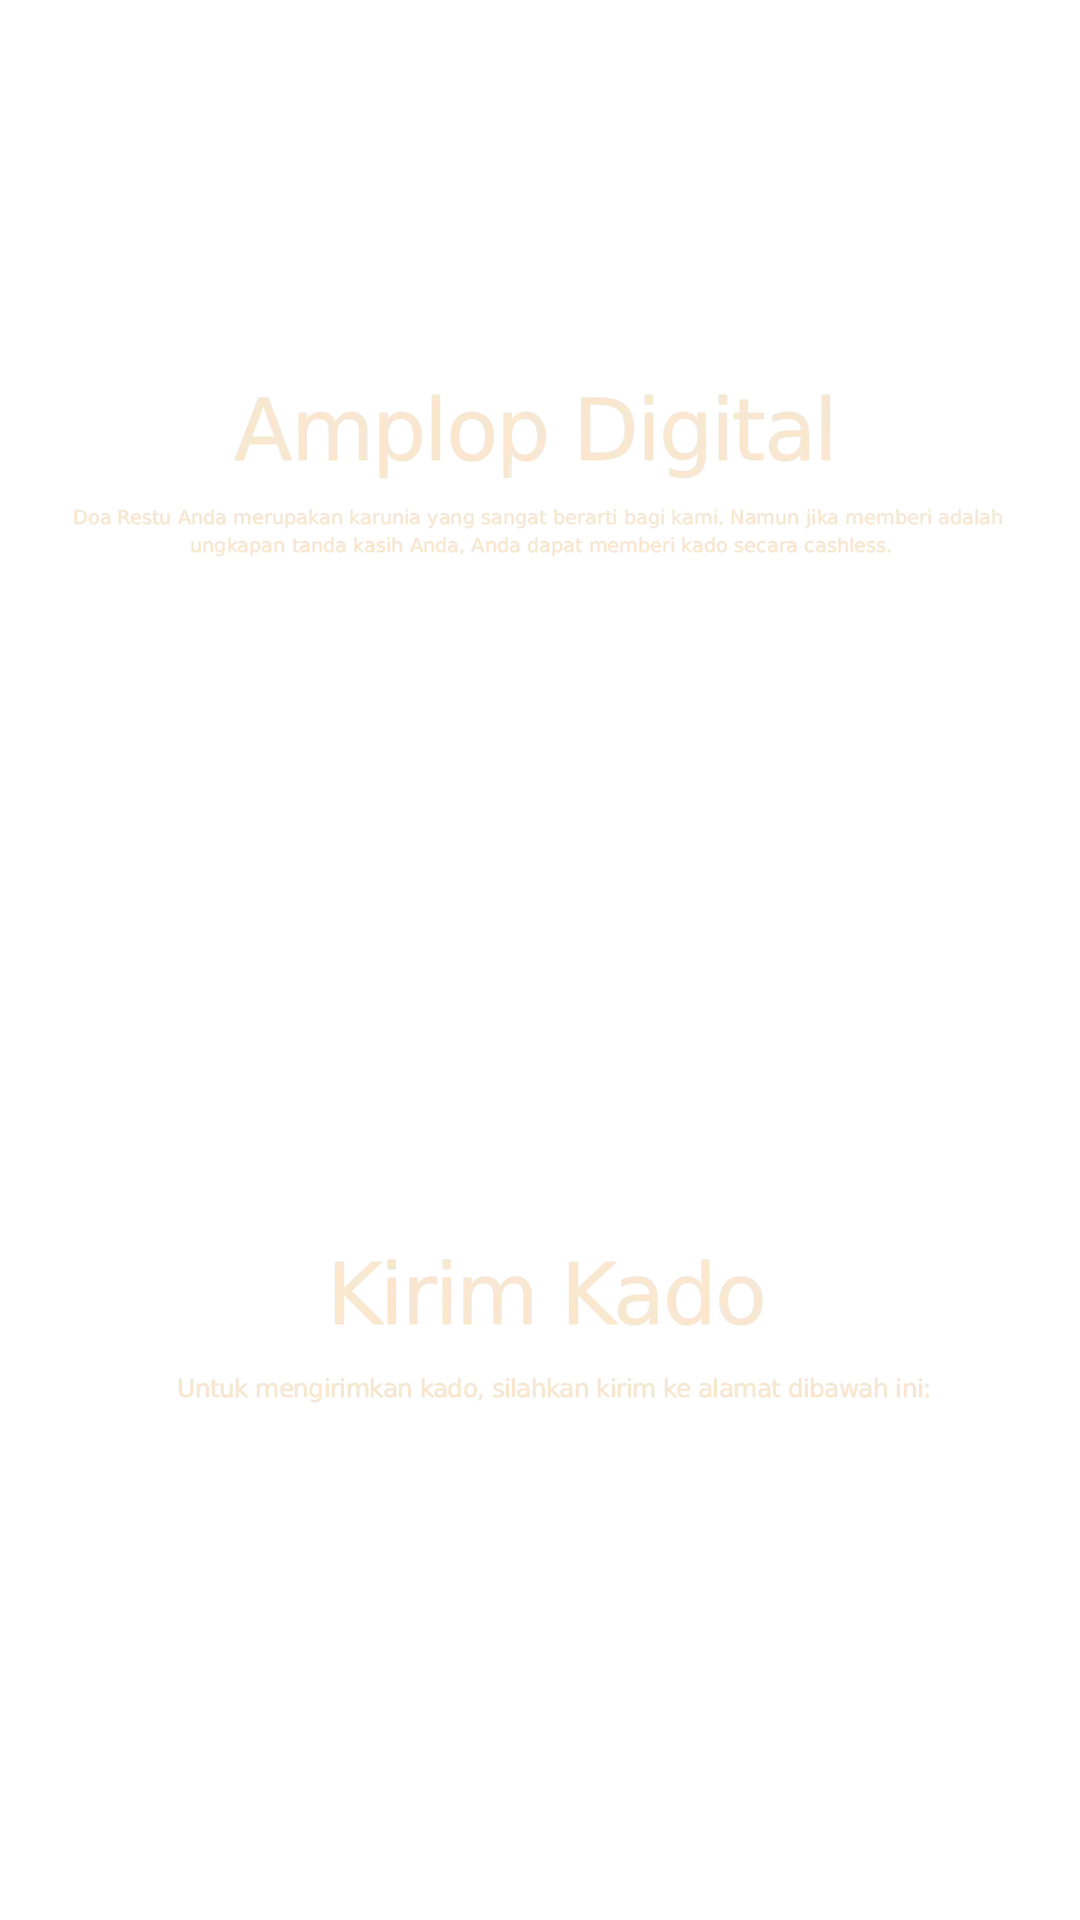
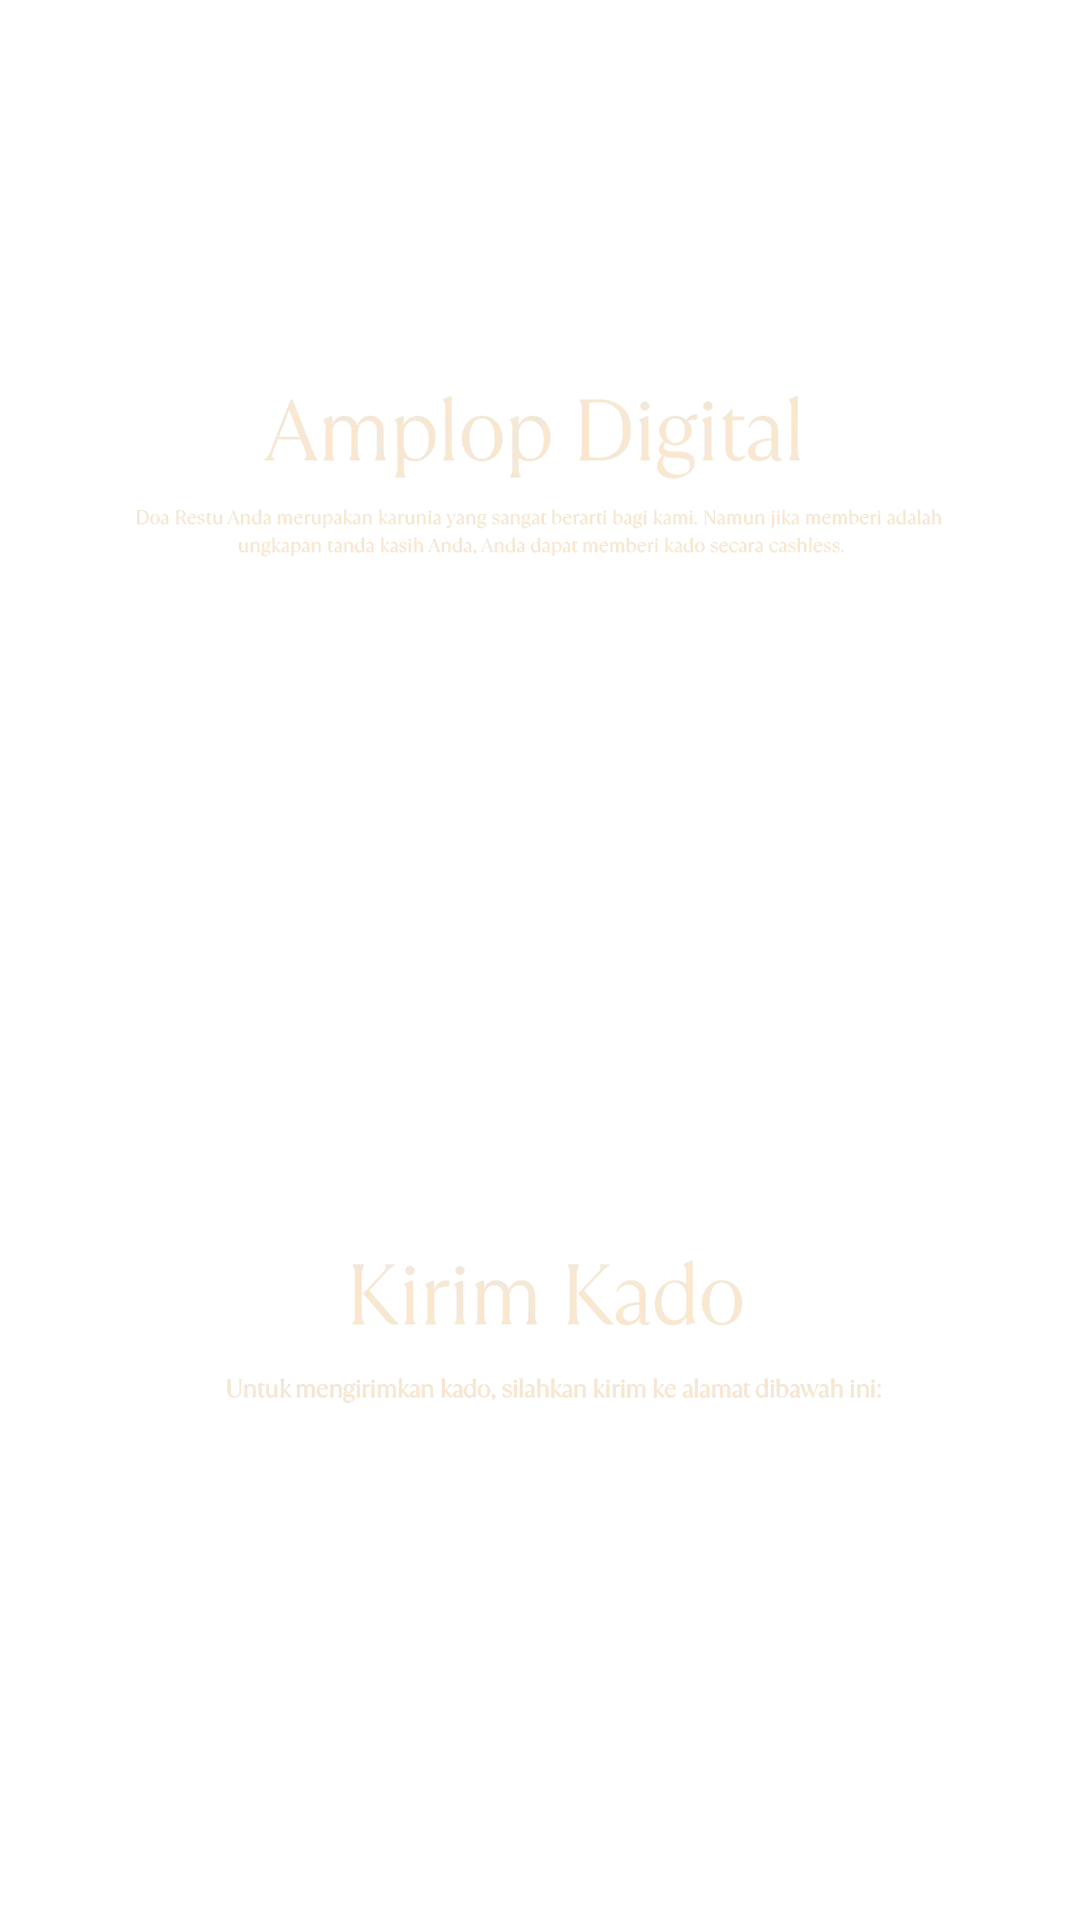
feat: glassmorphism card on guestbook, enable floating decor on all pages, update Google Maps URL, and change title to Undangan Khitan Kenzie dan Rasulan Puja

diff --git a/index.html b/index.html
@@ -6,9 +6,9 @@
     <meta name="theme-color" content="#1a1410" />
 
     <!-- Primary Meta Tags -->
-    <title>Undangan Khitan &amp; Rasulan Kenzie &amp; Puja</title>
-    <meta name="title" content="Undangan Khitan &amp; Rasulan Kenzie &amp; Puja" />
-    <meta name="description" content="Undangan Khitan &amp; Rasulan Kenzie Aslam Kayana Kasnur &amp; Puja Faiha Kasnur, putra-putri IPDA Aditya, S.H. &amp; Bripka Tresia Moris, S.H. Mohon doa &amp; kehadirannya." />
+    <title>Undangan Khitan Kenzie dan Rasulan Puja</title>
+    <meta name="title" content="Undangan Khitan Kenzie dan Rasulan Puja" />
+    <meta name="description" content="Undangan Khitan Kenzie dan Rasulan Puja, putra-putri IPDA Aditya, S.H. &amp; Bripka Tresia Moris, S.H. (Kenzie &amp; Puja). Mohon doa &amp; kehadirannya." />
     <meta name="keywords" content="undangan khitan, khitanan, rasulan, Kenzie Aslam Kayana Kasnur, Puja Faiha Kasnur, undangan digital" />
     <meta name="author" content="IPDA ADITYA, S.H. &amp; BRIPKA TRESIA MORIS, S.H." />
     <meta name="robots" content="index, follow" />
@@ -24,15 +24,15 @@
     <!-- Open Graph / Facebook / LinkedIn / WhatsApp -->
     <meta property="og:type" content="website" />
     <meta property="og:url" content="https://undangan-khitan-khenzie.pages.dev/" />
-    <meta property="og:title" content="Undangan Khitan &amp; Rasulan Kenzie &amp; Puja" />
-    <meta property="og:description" content="Undangan Khitan &amp; Rasulan Kenzie Aslam Kayana Kasnur &amp; Puja Faiha Kasnur, putra-putri IPDA Aditya, S.H. &amp; Bripka Tresia Moris, S.H. Mohon doa &amp; kehadirannya." />
+    <meta property="og:title" content="Undangan Khitan Kenzie dan Rasulan Puja" />
+    <meta property="og:description" content="Undangan Khitan Kenzie dan Rasulan Puja, putra-putri IPDA Aditya, S.H. &amp; Bripka Tresia Moris, S.H. (Kenzie &amp; Puja). Mohon doa &amp; kehadirannya." />
     <meta property="og:image" content="https://undangan-khitan-khenzie.pages.dev/og-image.jpg" />
     <meta property="og:image:secure_url" content="https://undangan-khitan-khenzie.pages.dev/og-image.jpg" />
     <meta property="og:image:type" content="image/jpeg" />
     <meta property="og:image:width" content="1200" />
     <meta property="og:image:height" content="630" />
-    <meta property="og:image:alt" content="Undangan Khitan &amp; Rasulan Kenzie &amp; Puja" />
-    <meta property="og:site_name" content="Undangan Khitan &amp; Rasulan Kenzie &amp; Puja" />
+    <meta property="og:image:alt" content="Undangan Khitan Kenzie dan Rasulan Puja" />
+    <meta property="og:site_name" content="Undangan Khitan Kenzie dan Rasulan Puja" />
     <meta property="og:locale" content="id_ID" />
 
     <!-- Twitter Card -->
@@ -40,14 +40,14 @@
     <meta name="twitter:site" content="@undangan_khitan" />
     <meta name="twitter:creator" content="@undangan_khitan" />
     <meta name="twitter:url" content="https://undangan-khitan-khenzie.pages.dev/" />
-    <meta name="twitter:title" content="Undangan Khitan &amp; Rasulan Kenzie &amp; Puja" />
-    <meta name="twitter:description" content="Undangan Khitan &amp; Rasulan Kenzie Aslam Kayana Kasnur &amp; Puja Faiha Kasnur, putra-putri IPDA Aditya, S.H. &amp; Bripka Tresia Moris, S.H. Mohon doa &amp; kehadirannya." />
+    <meta name="twitter:title" content="Undangan Khitan Kenzie dan Rasulan Puja" />
+    <meta name="twitter:description" content="Undangan Khitan Kenzie dan Rasulan Puja, putra-putri IPDA Aditya, S.H. &amp; Bripka Tresia Moris, S.H. (Kenzie &amp; Puja). Mohon doa &amp; kehadirannya." />
     <meta name="twitter:image" content="https://undangan-khitan-khenzie.pages.dev/og-image.jpg" />
-    <meta name="twitter:image:alt" content="Undangan Khitan &amp; Rasulan Kenzie &amp; Puja" />
+    <meta name="twitter:image:alt" content="Undangan Khitan Kenzie dan Rasulan Puja" />
   </head>
   <body>
     <div id="root">
-      <h1 class="sr-only">Undangan Khitan &amp; Rasulan Kenzie Aslam Kayana Kasnur &amp; Puja Faiha Kasnur</h1>
+      <h1 class="sr-only">Undangan Khitan Kenzie dan Rasulan Puja</h1>
     </div>
     <script type="module" src="/src/main.jsx"></script>
 
@@ -55,13 +55,13 @@
       {
         "@context": "https://schema.org",
         "@type": "Event",
-        "name": "Khitanan & Rasulan Kenzie & Puja",
+        "name": "Khitanan Kenzie dan Rasulan Puja",
         "eventAttendanceMode": "https://schema.org/OfflineEventAttendanceMode",
         "eventStatus": "https://schema.org/EventScheduled",
         "about": "Undangan khitanan dan rasulan putra putri kami, Kenzie Aslam Kayana Kasnur & Puja Faiha Kasnur",
         "startDate": "2026-08-03T08:00:00+07:00",
         "endDate": "2026-08-03T14:00:00+07:00",
-        "description": "Undangan Khitan & Rasulan Kenzie Aslam Kayana Kasnur & Puja Faiha Kasnur, putra-putri IPDA Aditya, S.H. & Bripka Tresia Moris, S.H. Mohon doa & kehadirannya.",
+        "description": "Undangan Khitan Kenzie dan Rasulan Puja, putra-putri IPDA Aditya, S.H. & Bripka Tresia Moris, S.H. (Kenzie & Puja). Mohon doa & kehadirannya.",
         "inLanguage": "id-ID",
         "image": "https://undangan-khitan-khenzie.pages.dev/og-image.jpg",
         "url": "https://undangan-khitan-khenzie.pages.dev/",

diff --git a/src/App.css b/src/App.css
@@ -1114,25 +1114,31 @@ body {
 .attendance-page-btn {
   font-family: 'TT Ramillas', serif;
   font-size: clamp(0.75rem, 2.8vw, 0.95rem);
-  font-weight: 500;
-  color: var(--cream);
-  background: var(--brown-dark);
-  border: 1px solid var(--gold);
-  width: 34px;
-  height: 34px;
-  border-radius: 6px;
+  font-weight: 600;
+  color: #ffffff;
+  background: rgba(255, 255, 255, 0.08);
+  backdrop-filter: blur(10px);
+  -webkit-backdrop-filter: blur(10px);
+  border: 1.5px solid rgba(255, 255, 255, 0.28);
+  width: 36px;
+  height: 36px;
+  border-radius: 8px;
   cursor: pointer;
-  transition: background 0.3s ease;
+  transition: all 0.3s ease;
+  box-shadow: 0 4px 12px rgba(0, 0, 0, 0.2);
   -webkit-tap-highlight-color: transparent;
 }
 
 .attendance-page-btn.is-active {
   background: #dfa64f;
   color: #0b1736;
+  border-color: #dfa64f;
+  box-shadow: 0 4px 16px rgba(223, 166, 79, 0.4);
 }
 
-.attendance-page-btn:active {
-  background: var(--brown-medium);
+.attendance-page-btn:hover:not(.is-active):not(:disabled) {
+  background: rgba(255, 255, 255, 0.16);
+  border-color: rgba(255, 255, 255, 0.4);
 }
 
 .attendance-page-btn:disabled {
@@ -1174,51 +1180,87 @@ body {
 
 .attendance-empty {
   font-family: 'TT Ramillas', serif;
-  font-size: clamp(0.7rem, 2.5vw, 0.85rem);
-  color: var(--brown-dark);
-  opacity: 0.7;
+  font-size: clamp(0.85rem, 3vw, 1rem);
+  color: #ffffff;
+  opacity: 0.95;
   text-align: center;
+  background: rgba(255, 255, 255, 0.08);
+  backdrop-filter: blur(14px);
+  -webkit-backdrop-filter: blur(14px);
+  border: 1.5px solid rgba(255, 255, 255, 0.28);
+  border-radius: 14px;
+  padding: 32px 20px;
+  box-shadow: 0 8px 32px rgba(0, 0, 0, 0.4), inset 0 1px 1px rgba(255, 255, 255, 0.2);
 }
 
 .attendance-wish-column {
-  background: #613c2c;
-  border: 1px solid var(--gold);
-  border-radius: 12px;
-  padding: 14px 14px;
+  background: rgba(255, 255, 255, 0.08);
+  backdrop-filter: blur(14px);
+  -webkit-backdrop-filter: blur(14px);
+  border: 1.5px solid rgba(255, 255, 255, 0.28);
+  border-radius: 14px;
+  padding: 16px 14px;
   display: flex;
   flex-direction: column;
-  gap: 10px;
+  gap: 12px;
   height: 58dvh;
   overflow-y: auto;
+  box-shadow: 0 8px 32px rgba(0, 0, 0, 0.4), inset 0 1px 1px rgba(255, 255, 255, 0.2);
+}
+
+.attendance-wish-column::-webkit-scrollbar {
+  width: 5px;
+}
+
+.attendance-wish-column::-webkit-scrollbar-track {
+  background: transparent;
+}
+
+.attendance-wish-column::-webkit-scrollbar-thumb {
+  background: rgba(255, 255, 255, 0.25);
+  border-radius: 10px;
+}
+
+.attendance-wish-column::-webkit-scrollbar-thumb:hover {
+  background: rgba(255, 255, 255, 0.45);
 }
 
 .attendance-wish {
-  background: rgba(255, 255, 255, 0.06);
-  border: 1px solid rgba(212, 175, 55, 0.4);
-  border-radius: 8px;
-  padding: 10px 12px;
+  background: rgba(255, 255, 255, 0.08);
+  backdrop-filter: blur(10px);
+  -webkit-backdrop-filter: blur(10px);
+  border: 1px solid rgba(255, 255, 255, 0.24);
+  border-radius: 10px;
+  padding: 12px 14px;
+  box-shadow: 0 4px 16px rgba(0, 0, 0, 0.25), inset 0 1px 1px rgba(255, 255, 255, 0.15);
+  transition: transform 0.2s ease, border-color 0.2s ease;
+}
+
+.attendance-wish:hover {
+  border-color: rgba(255, 255, 255, 0.45);
 }
 
 .attendance-wish-name {
   font-family: 'TT Ramillas', serif;
-  font-size: clamp(0.85rem, 3vw, 1rem);
-  font-weight: 500;
-  color: var(--gold-light);
+  font-size: clamp(0.9rem, 3.2vw, 1.05rem);
+  font-weight: 700;
+  color: #dfa64f;
+  letter-spacing: 0.5px;
 }
 
 .attendance-wish-meta {
   font-family: 'TT Ramillas', serif;
-  font-size: clamp(0.6rem, 2vw, 0.75rem);
-  color: var(--cream);
-  opacity: 0.8;
-  margin: 2px 0 4px;
+  font-size: clamp(0.65rem, 2.2vw, 0.78rem);
+  color: rgba(255, 255, 255, 0.75);
+  margin: 3px 0 6px;
 }
 
 .attendance-wish-text {
   font-family: 'TT Ramillas', serif;
-  font-size: clamp(0.7rem, 2.5vw, 0.9rem);
-  color: var(--cream);
-  line-height: 1.4;
+  font-size: clamp(0.75rem, 2.8vw, 0.92rem);
+  color: #ffffff;
+  line-height: 1.5;
+  word-break: break-word;
 }
 
 /* ===== DASHBOARD (route /dashboard) — mobile app shell ===== */

diff --git a/src/App.jsx b/src/App.jsx
@@ -93,14 +93,13 @@ function GapuraOpening() {
 
 function PageSection({ index, images, showGapura, gallery, amplop, mapsUrl, form, guestbook, closing }) {
   const konten = `/konten${index}.webp`
-  const animateDecor = !form && !guestbook && !amplop
 
   return (
     <section className="invite-page">
       {/* Reused layers: bg, gunungan, bunga, border */}
       <div className="cover-layer-bg" />
-      <div className={`cover-layer-gunungan${animateDecor ? '' : ' no-float'}`} />
-      <div className={`cover-layer-bunga${animateDecor ? '' : ' no-float'}`} />
+      <div className="cover-layer-gunungan" />
+      <div className="cover-layer-bunga" />
       <div className="cover-layer-border" />
 
       {/* Attendance form page */}
@@ -178,7 +177,7 @@ function MultiPageSection() {
           form={n === 6}
           guestbook={n === 7}
           closing={n === 8}
-          mapsUrl={n === 3 ? 'https://maps.app.goo.gl/7paDEStubjaWSGrLA' : undefined}
+          mapsUrl={n === 3 ? 'https://maps.app.goo.gl/wckaKPvN7CeQKi6s7?g_st=iw' : undefined}
           showGapura={n === 2}
         />
       ))}
@@ -237,7 +236,7 @@ function App() {
 
   return (
     <div className="app">
-      <h1 className="sr-only">Undangan Khitan &amp; Rasulan Kenzie &amp; Puja</h1>
+      <h1 className="sr-only">Undangan Khitan Kenzie dan Rasulan Puja</h1>
       <AudioToggle audioRef={audioRef} playing={playing} onToggle={toggleAudio} />
       <AnimatePresence mode="wait">
         {page === 'cover' && (

diff --git a/src/components/AmplopDigital.jsx b/src/components/AmplopDigital.jsx
@@ -57,7 +57,7 @@ export default function AmplopDigital() {
         </button>
       </div>
       <div className="amplop-maps-link" ref={mapsLinkRef}>
-        <a href="https://maps.app.goo.gl/N7Ct31qXmGHeKG4p6" target="_blank" rel="noopener noreferrer">
+        <a href="https://maps.app.goo.gl/wckaKPvN7CeQKi6s7?g_st=iw" target="_blank" rel="noopener noreferrer">
           <img src="/konten4/button-lokasi.webp" alt="Lokasi Google Maps" className="amplop-maps-btn" />
         </a>
       </div>
